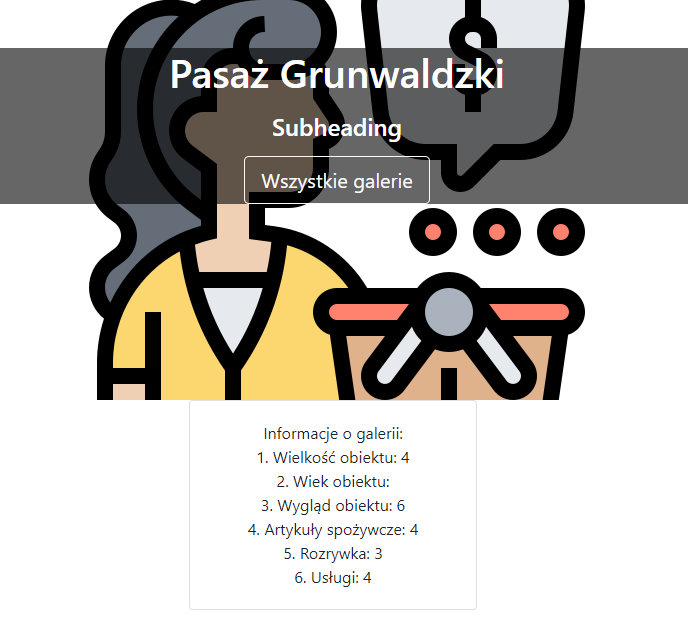
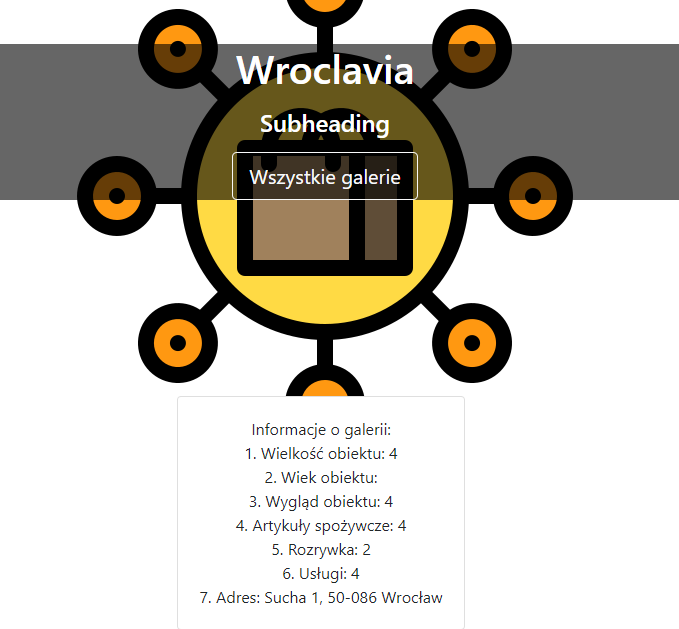
jpgs

diff --git a/wspomaganie_decyzji/templates/wspomaganie_decyzji/galeria.html b/wspomaganie_decyzji/templates/wspomaganie_decyzji/galeria.html
@@ -51,6 +51,7 @@
                 4. Artykuły spożywcze: {{ galeria.artykuly_spozywcze }} <br>
                 5. Rozrywka: {{ galeria.rozrywka }} <br>
                 6. Usługi: {{ galeria.uslugi }} <br>
+                7. Adres: {{ galeria.lokalizacja }}
                 </p>
           </div>
         </div>
